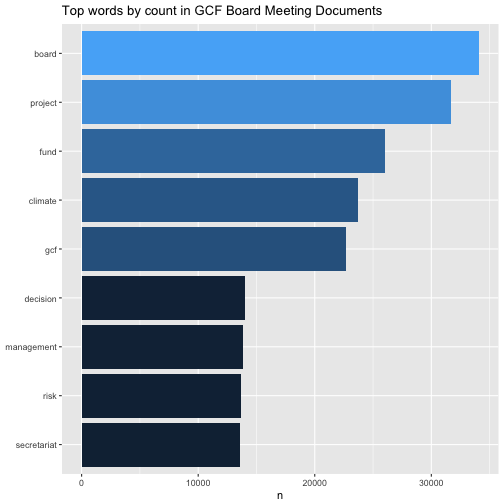
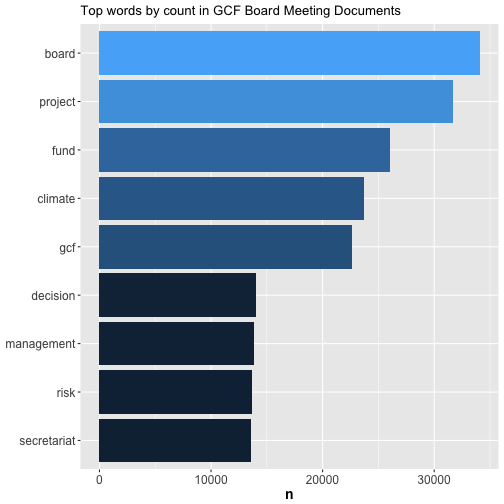
amended more axis and facet label text

Changed region(s): [[0.0, 0.0, 0.9821, 1.0], [0.8929, 0.1786, 0.9226, 0.2381]]

diff --git a/_posts/2017-4-26-exploratory_data_analysis_of_board_documents_at_the_green_climate_fund.md b/_posts/2017-4-26-exploratory_data_analysis_of_board_documents_at_the_green_climate_fund.md
@@ -13,7 +13,7 @@ comments: true
 
 Recently, I harvested over 500,000 lines of text from 500+ Green Climate Fund board documents. Because of this, I've  built a data-only R package called `gcfboardr`, so that anyone can make use of the corpus I've created without going through the harvesting process.
 
-To build the data, I used documents produced for board meetings, available [here on the GCF website](http://http://www.greenclimate.fund/boardroom/board-meetings/documents). I've read some of these documents before, and it occured me that the Fund will produce more text than anyone can read in a lifetime. So I've used my natural curiosity about the Fund as a motivating project with which to practice the tidytext approach to text mining and gain deeper insight into the Fund.
+To build the data, I used documents produced for board meetings, available [here on the GCF website](http://http://www.greenclimate.fund/boardroom/board-meetings/documents). I've read some of these documents before, and it occured me that the Fund will produce more text than anyone can read in a lifetime. So I've used my natural curiosity about the Fund as a motivating project with which to practice the tidytext approach to text analysis in R and gain deeper insight into the Fund.
 
 In this post, I'm going to show what can be done with gcfboardr.
 
@@ -54,9 +54,9 @@ glimpse(gcfboard_docs)
 {% highlight text %}
 ## Observations: 490,537
 ## Variables: 3
-## $ title   <fctr> Sixteenth Meeting of the Board, Sixteenth Meeting of the Board, Sixteenth Meet...
-## $ meeting <fctr> B.16, B.16, B.16, B.16, B.16, B.16, B.16, B.16, B.16, B.16, B.16, B.16, B.16, ...
 ## $ text    <chr> "Date:  March ", "Reference: ", "Sixteenth Meeting of the Board", " –  April ",...
+## $ meeting <fctr> B.16, B.16, B.16, B.16, B.16, B.16, B.16, B.16, B.16, B.16, B.16, B.16, B.16, ...
+## $ title   <fctr> Sixteenth Meeting of the Board, Sixteenth Meeting of the Board, Sixteenth Meet...
 {% endhighlight %}
 
 We have almost 500,000 observations of three variables, in which every observation is a line from an original document. How many documents are there per meeting?
@@ -88,8 +88,8 @@ glimpse(gcf_tidy)
 {% highlight text %}
 ## Observations: 2,661,944
 ## Variables: 3
-## $ title   <fctr> Roles and Responsibilities of the Board, Annotations to the Provisional Agenda...
 ## $ meeting <fctr> B.01, B.01, B.01, B.01, B.01, B.01, B.01, B.01, B.01, B.01, B.01, B.01, B.01, ...
+## $ title   <fctr> Roles and Responsibilities of the Board, Annotations to the Provisional Agenda...
 ## $ word    <chr> "meritbased", "contd", "realestate", "worldclass", "spacious", "itower", "itowe...
 {% endhighlight %}
 

diff --git a/_posts/2017-4-25-GCF_board_documents_to_tidy_data.md b/_posts/2017-4-25-GCF_board_documents_to_tidy_data.md
@@ -204,9 +204,9 @@ For ideas on how to use the data set for analysis, see my post on [exploratory d
 
 1. Users should be aware that there are some issues with the data from B.03, a board meeting which was documented using an unknown process for creating Pdf documents. This set of Pdf documents caused some parsing problems for the `pdftools` package, resulting in garbled word tokens. As such, gcfboardr does not contain any documents from the B.03 board meeting.
 
-2. Zipf's Law is a simple power law:
+2. On github, I've also included the R script documenting how I harvested all the files from the GCF website and pulled the text out of them. The script includes a few functions I wrote, such as the pdf_date function, which makes it easier to pull "creation date" metadata out of pdfs, using a method which works well with the map family of functions from purrr. This means that unlike the pdf_info function in the pdftools package, it can be used when building a data frame using dplyr. You can find that script [here](https://github.com/ljodea/gcfboardr/blob/master/data-raw/prep_data.R).
+
+
+3. Zipf's Law is a simple power law:
 
 $$f(k;s,N)=\frac{1/k^s}{\sum_{n=1}^N (1/n^s)}$$
-
-
-3. On github, I've also included the R script documenting how I harvested all the files from the GCF website and pulled the text out of them. The script includes a few functions I wrote, such as the pdf_date function, which makes it easier to pull "creation date" metadata out of pdfs, using a method which works well with the map family of functions from purrr. This means that unlike the pdf_info function in the pdftools package, it can be used when building a data frame using dplyr. You can find that script [here](https://github.com/ljodea/gcfboardr/blob/master/data-raw/prep_data.R).
